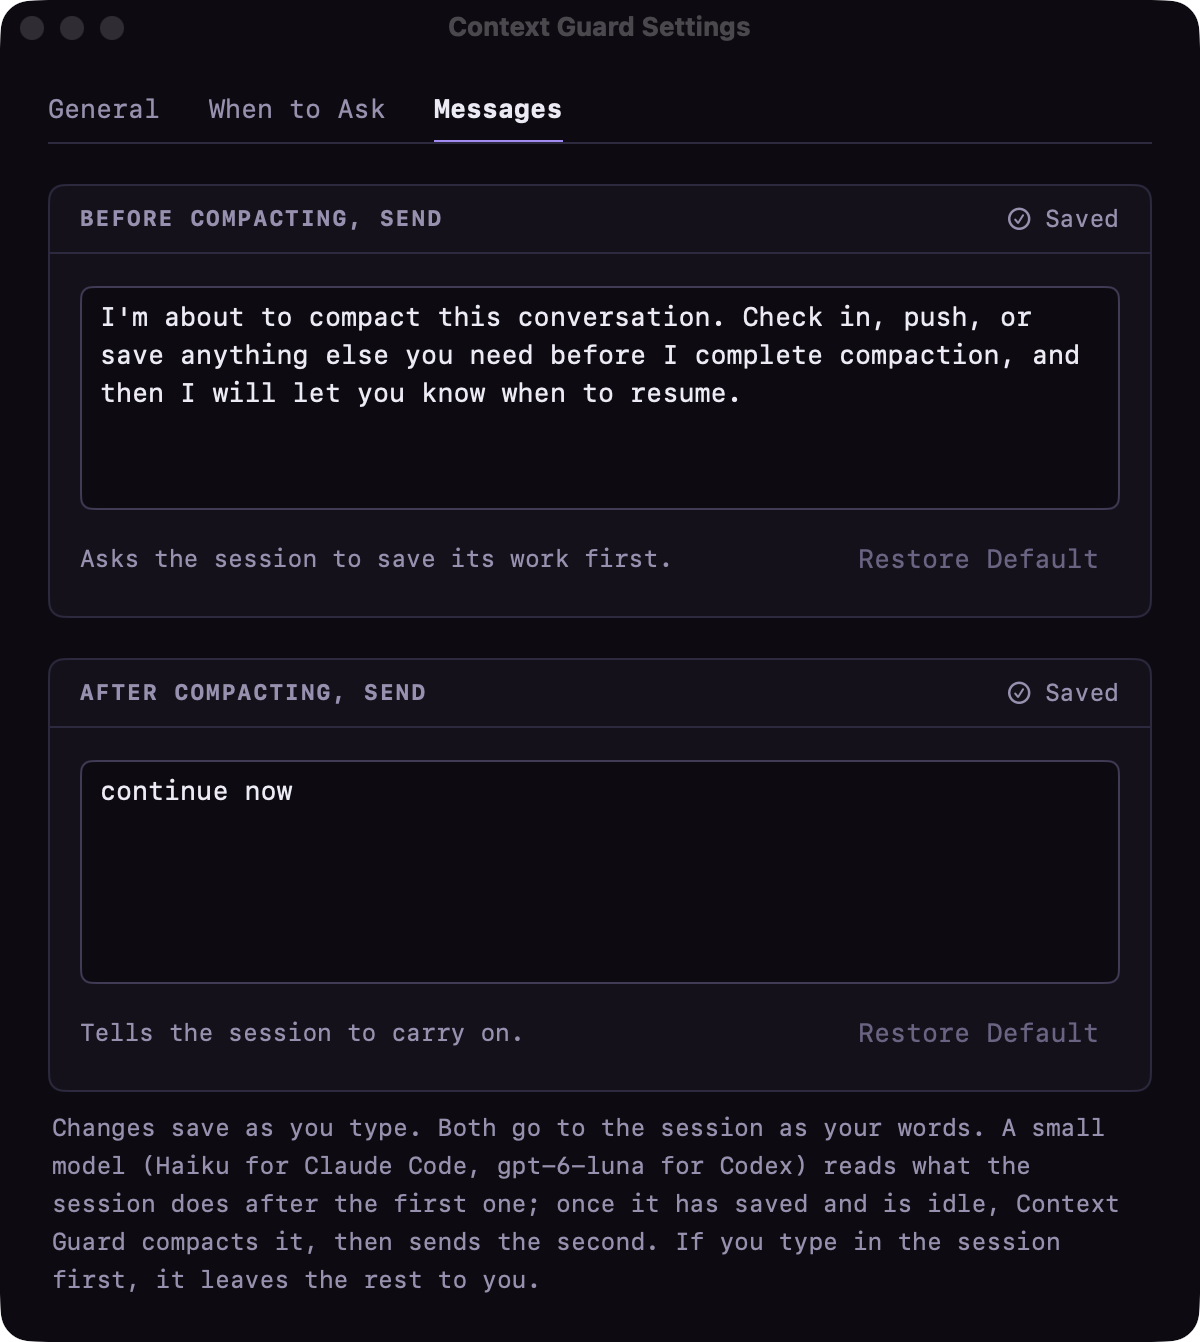
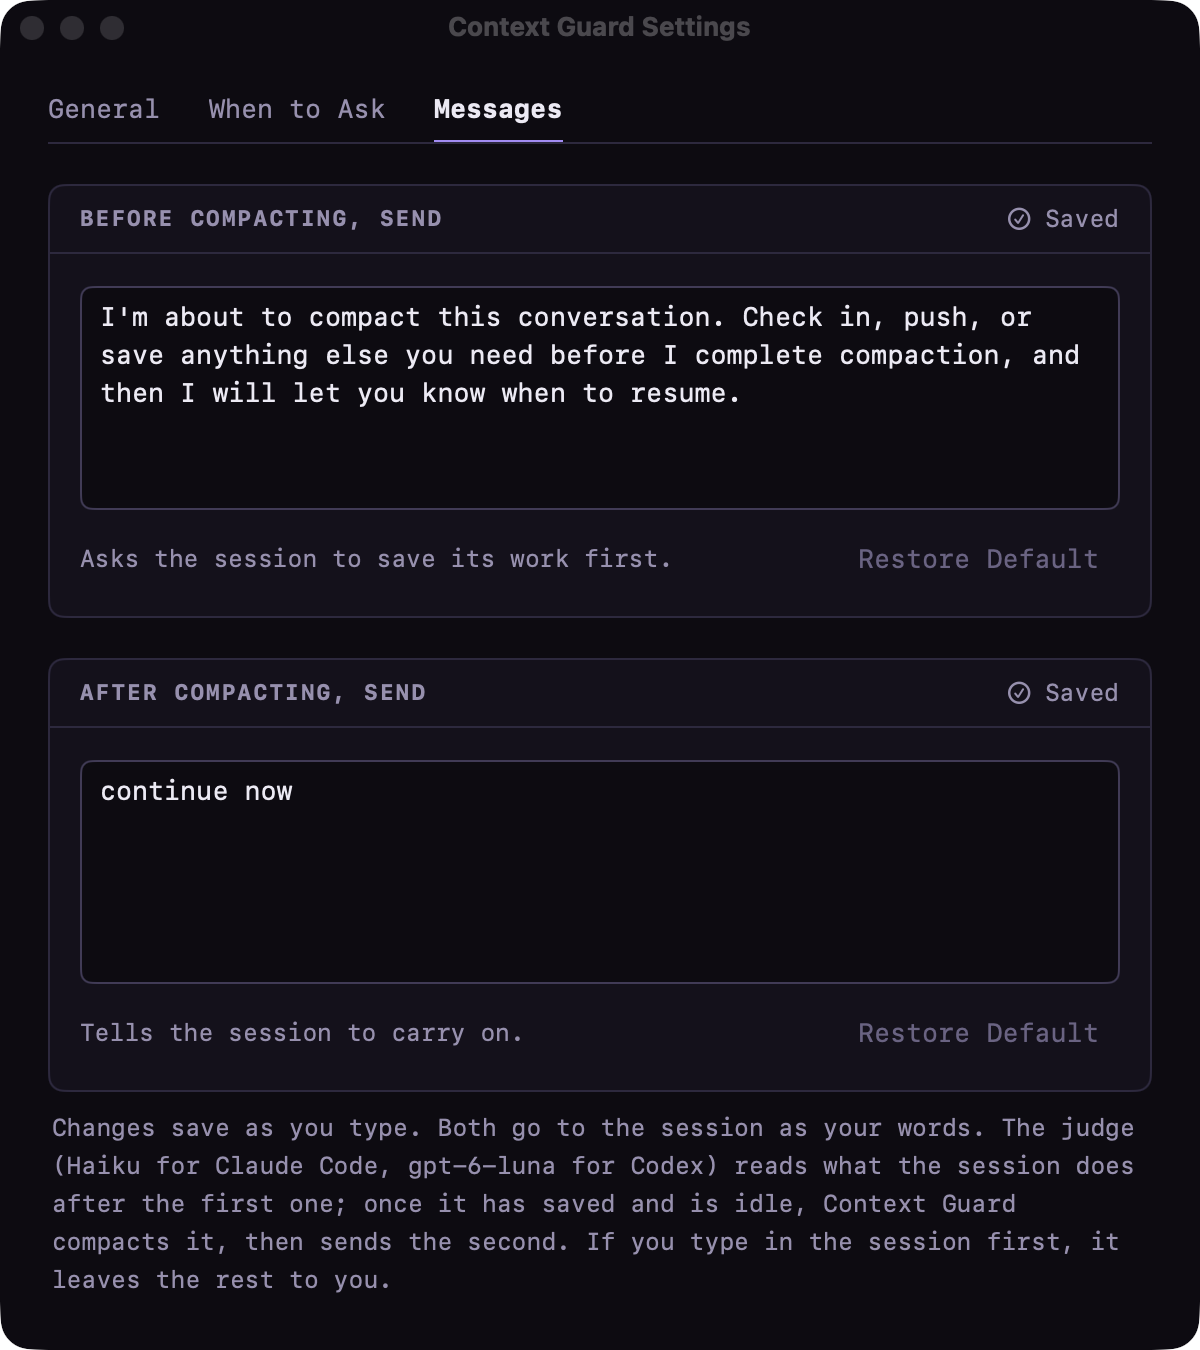
Settings: the same words and layout for Claude Code and Codex
General had one Setup card that named things two ways ("Claude Code hooks"
but "Judge for Codex"), and said "each session's sign-in" for one judge,
"your Codex sign-in" for the other and "that session's account" under both.

- General has a card per tool, as When to Ask does: Claude Code (Hooks,
  Mod, Judge) and Codex (Link, Judge). Each judge row names the model, and
  the note under each card says the same thing: "No API key: the judge uses
  your Claude Code sign-in." / "... your Codex sign-in."
- When to Ask: both notes start "When a session reaches ...", with the
  Codex one giving the share, then what that is in a 258k window.
- Messages: "The judge (Haiku for Claude Code, gpt-6-luna for Codex)", the
  word General uses, not "a small model".
- README: the same sign-in wording; docs/settings.png retaken.

For looking at it: live-test/ui-demo.sh no longer depends on what this Mac
has installed (CONTEXT_GUARD_LAUNCH_AGENTS), so no-codex shows the layout
without Codex; and `capture <tab> <file>` screen-captures a Settings window
that stays behind your windows and never takes focus, so the README image
can be made without reaching the menu bar.

diff --git a/Sources/ContextGuardApp/SettingsView.swift b/Sources/ContextGuardApp/SettingsView.swift
@@ -7,23 +7,30 @@ import SwiftUI
 final class SettingsWindow {
     private var window: NSWindow?
 
+    /// The window, empty: Settings opens in it (and so does `live-test/ui-demo.sh capture`).
+    static func makeWindow() -> NSWindow {
+        let w = NSWindow(contentRect: .zero, styleMask: [.titled, .closable, .fullSizeContentView],
+                         backing: .buffered, defer: true)
+        w.title = "Context Guard Settings"
+        // The brand's background runs under the title bar.
+        w.titlebarAppearsTransparent = true
+        w.backgroundColor = Theme.windowBackground
+        w.isReleasedWhenClosed = false
+        return w
+    }
+
+    static func fill(_ window: NSWindow, model: AppModel, tab: SettingsTab = .general) {
+        let host = NSHostingController(rootView: SettingsView(model: model, tab: tab))
+        host.sizingOptions = .preferredContentSize
+        window.contentViewController = host
+    }
+
     func show(model: AppModel) {
-        if window == nil {
-            let w = NSWindow(contentRect: .zero, styleMask: [.titled, .closable, .fullSizeContentView],
-                             backing: .buffered, defer: true)
-            w.title = "Context Guard Settings"
-            // The brand's background runs under the title bar.
-            w.titlebarAppearsTransparent = true
-            w.backgroundColor = Theme.windowBackground
-            w.isReleasedWhenClosed = false
-            window = w
-        }
+        if window == nil { window = Self.makeWindow() }
         guard let window else { return }
         if !window.isVisible {
             // Fresh each time it opens, so it shows settings changed elsewhere (the CLI, the menu).
-            let host = NSHostingController(rootView: SettingsView(model: model))
-            host.sizingOptions = .preferredContentSize
-            window.contentViewController = host
+            Self.fill(window, model: model)
             window.center()
         }
         // Wait for the menu to finish closing: activating while it still tracks the mouse is
@@ -163,19 +170,23 @@ struct SettingsView: View {
                 .padding(.horizontal, 2)
                 .padding(.bottom, 14)
 
-            Card(title: "Setup") {
-                Row(label: "Claude Code hooks") { installed(hooksInstalled) }
+            // One card per tool, as on When to Ask: what's installed, then the judge and whose sign-in it uses.
+            Card(title: SessionHost.claude.name) {
+                Row(label: "Hooks") { installed(hooksInstalled) }
+                    .help("Follow each Claude Code session and send it the save and continue messages")
                 Rule()
-                Row(label: "Claude Code mod") { installed(modInstalled) }
-                    .help("Compacts sessions once they have saved")
+                Row(label: "Mod") { installed(modInstalled) }
+                    .help("Compacts each Claude Code session once it has saved")
                 Rule()
-                if model.showsCodex {
-                    Row(label: "Judge for Claude Code") {
-                        StatusLabel(text: "Haiku, each session's sign-in", symbol: "checkmark.circle.fill", color: Theme.success)
-                    }
-                    Rule()
-                    Row(label: "Codex link") { codexLinkLabel }
-                        .help("Keeps Codex sessions guarded. It connects to Codex while a Codex session runs in a terminal.")
+                Row(label: "Judge") { judgeLabel(SessionHost.claude.judgeName) }
+                    .help(judgeHelp)
+            }
+            Note("No API key: the judge uses your Claude Code sign-in.")
+                .padding(.horizontal, 2)
+            if model.showsCodex {
+                Card(title: SessionHost.codex.name) {
+                    Row(label: "Link") { codexLinkLabel }
+                        .help("Follows each Codex session, sends it the save and continue messages and compacts it. It connects to Codex while a Codex session runs in a terminal.")
                     if case .onlyWatching(let why) = model.codexLink {
                         Rule()
                         Note("Only watching, not compacting: \(why). A newer Codex may fix this.", color: Theme.warning)
@@ -183,25 +194,45 @@ struct SettingsView: View {
                             .padding(.vertical, 12)
                     }
                     Rule()
-                    Row(label: "Judge for Codex") {
-                        StatusLabel(text: model.codexJudge.map { "\($0), your Codex sign-in" } ?? "Your Codex sign-in",
-                                    symbol: "checkmark.circle.fill", color: Theme.success)
-                    }
-                } else {
-                    Row(label: "Haiku") {
-                        StatusLabel(text: "Each session's sign-in", symbol: "checkmark.circle.fill", color: Theme.success)
-                    }
+                    Row(label: "Judge") { codexJudgeLabel }
+                        .help(judgeHelp)
                 }
+                .padding(.top, 14)
+                Note("No API key: the judge uses your Codex sign-in.")
+                    .padding(.horizontal, 2)
             }
-            Note(model.showsCodex
-                 ? "Nothing to sign in to. The mod asks Haiku through the Claude Code session it runs in, with that session's account. The Codex link asks \(codexJudgeName) through Codex, with your Codex sign-in."
-                 : "Nothing to sign in to. The mod asks Haiku through the Claude Code session it runs in, with that session's account.")
-                .padding(.horizontal, 2)
         }
     }
 
-    /// The model the Codex link judges with, once it has said; until then what it is.
-    private var codexJudgeName: String { model.codexJudge ?? "a small OpenAI model" }
+    private let judgeHelp = "Reads what the session does after the save message and says when it has saved"
+
+    /// The model the Codex link judges with: the one it picked, the session's own when Codex offers
+    /// no small one, or nothing yet until it connects.
+    private var codexJudge: (name: String, known: Bool) {
+        if let m = model.codexJudge { return (m, true) }
+        switch model.codexLink {
+        case .connected, .onlyWatching: return ("Each session's own model", true)
+        case .waiting, .notRunning: return ("Picked when Codex connects", false)
+        }
+    }
+
+    /// The judge as notes name it, in a sentence.
+    private var codexJudgeName: String {
+        model.codexJudge ?? (codexJudge.known ? "each session's own model" : "a small OpenAI model")
+    }
+
+    @ViewBuilder
+    private var codexJudgeLabel: some View {
+        if codexJudge.known {
+            judgeLabel(codexJudge.name)
+        } else {
+            StatusLabel(text: codexJudge.name, symbol: "clock", color: Theme.muted)
+        }
+    }
+
+    private func judgeLabel(_ name: String) -> some View {
+        StatusLabel(text: name, symbol: "checkmark.circle.fill", color: Theme.success)
+    }
 
     @ViewBuilder
     private var codexLinkLabel: some View {
@@ -244,7 +275,7 @@ struct SettingsView: View {
                 } accessory: {
                     SaveStatusLabel(status: thresholdProblem.map(SaveStatus.notSaved) ?? thresholdsSaved)
                 }
-                problemOr(thresholdProblem, "At \(askK)k tokens a popup asks whether to compact the session. If you choose Wait, it compacts at \(laterK)k.")
+                problemOr(thresholdProblem, "When a session reaches \(askK)k tokens, a popup asks whether to compact it. If you choose Wait, it compacts at \(laterK)k.")
                     .padding(.bottom, 14)
                 Card(title: "Codex") {
                     NumberField(label: "Ask at", value: $codexAsk, unit: "%", step: 5, range: Config.codexAskPercentRange,
@@ -333,11 +364,11 @@ struct SettingsView: View {
         c.codexAskPercent = codexAsk
         c.codexLaterPercent = codexLater
         let t = c.codexThresholds()
-        return "Shares of each session's own window. In a \(Format.tokens(Config.typicalCodexWindow)) window a popup asks at \(Format.tokens(t.askAt)); if you choose Wait, it compacts at \(Format.tokens(t.laterAt))."
+        return "When a session reaches \(codexAsk)% of its window, a popup asks whether to compact it. If you choose Wait, it compacts at \(codexLater)%. In a \(Format.tokens(Config.typicalCodexWindow)) window, that's \(Format.tokens(t.askAt)) and \(Format.tokens(t.laterAt))."
     }
 
     private var whenToAskText: String {
-        let ask = "At \(askK)k tokens a popup asks whether to compact the session."
+        let ask = "When a session reaches \(askK)k tokens, a popup asks whether to compact it."
         let answer = autoYes > 0
             ? " If you don't answer within \(Format.seconds(autoYes)), it compacts."
             : " It waits for your answer (0 seconds: it never compacts on its own)."
@@ -369,7 +400,7 @@ struct SettingsView: View {
             messageCard("After compacting, send", text: $continueMessage, original: Config.defaultContinueMessage,
                         about: "Tells the session to carry on.", what: "continue message", status: continueSaved)
                 .padding(.top, 10)
-            Note("Changes save as you type. Both go to the session as your words. \(model.showsCodex ? "A small model (Haiku for Claude Code, \(codexJudgeName) for Codex)" : "Haiku") reads what the session does after the first one; once it has saved and is idle, Context Guard compacts it, then sends the second. If you type in the session first, it leaves the rest to you.")
+            Note("Changes save as you type. Both go to the session as your words. \(model.showsCodex ? "The judge (Haiku for Claude Code, \(codexJudgeName) for Codex)" : "The judge (Haiku)") reads what the session does after the first one; once it has saved and is idle, Context Guard compacts it, then sends the second. If you type in the session first, it leaves the rest to you.")
                 .padding(.horizontal, 2)
         }
     }
@@ -494,8 +525,13 @@ enum CodexLinkInstall {
     /// install.sh writes this LaunchAgent, which keeps `context-guard codex` running.
     static let label = "com.spaceterran.ContextGuard.codex"
 
+    /// `CONTEXT_GUARD_LAUNCH_AGENTS` moves the folder it's looked for in, so `live-test/ui-demo.sh`
+    /// shows the same thing whatever this Mac has installed.
     static var plist: URL {
-        FileManager.default.homeDirectoryForCurrentUser.appendingPathComponent("Library/LaunchAgents/\(label).plist")
+        let moved = ProcessInfo.processInfo.environment["CONTEXT_GUARD_LAUNCH_AGENTS"].flatMap { $0.isEmpty ? nil : $0 }
+        let dir = moved.map { URL(fileURLWithPath: ($0 as NSString).expandingTildeInPath, isDirectory: true) }
+            ?? FileManager.default.homeDirectoryForCurrentUser.appendingPathComponent("Library/LaunchAgents", isDirectory: true)
+        return dir.appendingPathComponent("\(label).plist")
     }
 
     static var isInstalled: Bool { FileManager.default.fileExists(atPath: plist.path) }

diff --git a/Sources/ContextGuardApp/Snapshots.swift b/Sources/ContextGuardApp/Snapshots.swift
@@ -8,16 +8,41 @@ import SwiftUI
 /// The app draws them itself: no screen recording, and nothing else on screen.
 @MainActor
 enum Snapshots {
-    private static var source: DispatchSourceSignal?
+    private static var sources: [DispatchSourceSignal] = []
+    private static var shown: NSWindow?
 
-    /// With `CONTEXT_GUARD_SNAPSHOTS` set to a folder, SIGUSR1 writes the PNGs there.
+    /// With `CONTEXT_GUARD_SNAPSHOTS` set to a folder, SIGUSR1 writes the PNGs there and SIGUSR2
+    /// shows a Settings window for `live-test/ui-demo.sh capture`.
     static func start(model: AppModel) {
-        guard let dir = ProcessInfo.processInfo.environment["CONTEXT_GUARD_SNAPSHOTS"], !dir.isEmpty else { return }
-        signal(SIGUSR1, SIG_IGN)
-        let s = DispatchSource.makeSignalSource(signal: SIGUSR1, queue: .main)
-        s.setEventHandler { MainActor.assumeIsolated { write(model: model, to: URL(fileURLWithPath: dir, isDirectory: true)) } }
-        s.resume()
-        source = s
+        guard let path = ProcessInfo.processInfo.environment["CONTEXT_GUARD_SNAPSHOTS"], !path.isEmpty else { return }
+        let dir = URL(fileURLWithPath: path, isDirectory: true)
+        for (sig, act) in [(SIGUSR1, { write(model: model, to: dir) }), (SIGUSR2, { show(model: model, in: dir) })] {
+            signal(sig, SIG_IGN)
+            let s = DispatchSource.makeSignalSource(signal: sig, queue: .main)
+            s.setEventHandler { MainActor.assumeIsolated { act() } }
+            s.resume()
+            sources.append(s)
+        }
+    }
+
+    /// The Settings window on the tab named in `show`, as the README shows it, for a screen capture
+    /// (`screencapture -l`, which gives the corners and nothing else; drawing the view can't). It
+    /// goes behind every other window and is never key, so nothing you type reaches it. Its window
+    /// number goes to `shown`. With no `show` file, it closes.
+    static func show(model: AppModel, in dir: URL) {
+        shown?.orderOut(nil)
+        shown = nil
+        let marker = dir.appendingPathComponent("shown")
+        try? FileManager.default.removeItem(at: marker)
+        let name = (try? String(contentsOf: dir.appendingPathComponent("show"), encoding: .utf8))?
+            .trimmingCharacters(in: .whitespacesAndNewlines)
+        guard let tab = name.flatMap(SettingsTab.init(rawValue:)) else { return }
+        let w = SettingsWindow.makeWindow()
+        SettingsWindow.fill(w, model: model, tab: tab)
+        w.center()
+        w.orderBack(nil)
+        shown = w
+        try? "\(w.windowNumber)\n".write(to: marker, atomically: true, encoding: .utf8)
     }
 
     /// `window-<number>.png` for each visible window, the frame (title bar and all) included;

diff --git a/README.md b/README.md
@@ -45,17 +45,18 @@ so, and Haiku holds it until it's done.
 A notice says when it needs you, when it compacts and how it went. After a session compacts, it's
 asked again the next time it reaches 300k.
 
-Haiku needs no sign-in or key: the mod asks it through the Claude Code session it runs in, with that
-session's account.
+Haiku needs no API key: the mod asks it through the Claude Code session it runs in, with your Claude
+Code sign-in.
 
 Each session's menu has **Watch This Session**. Turned off, that tab gets no questions and isn't
 compacted by itself until it closes or you turn it back on. **Compact Now** always works, even there
 and with Context Guard off.
 
-Settings has three tabs: **General** (on or off, open at login, what's installed), **When to Ask**
-(the thresholds, and how long a question waits before it compacts by itself; 0 for never) and
-**Messages** (the save message and the continue message). Changes save as you type. The When to Ask
-and Messages cards say in their header when your last change was saved, or that it wasn't and why.
+Settings has three tabs: **General** (on or off, open at login, and for each tool what's installed and
+its judge), **When to Ask** (the thresholds, and how long a question waits before it compacts by
+itself; 0 for never) and **Messages** (the save message and the continue message). Changes save as
+you type. The When to Ask and Messages cards say in their header when your last change was saved, or
+that it wasn't and why.
 
 | The session's menu | Settings |
 |---|---|
